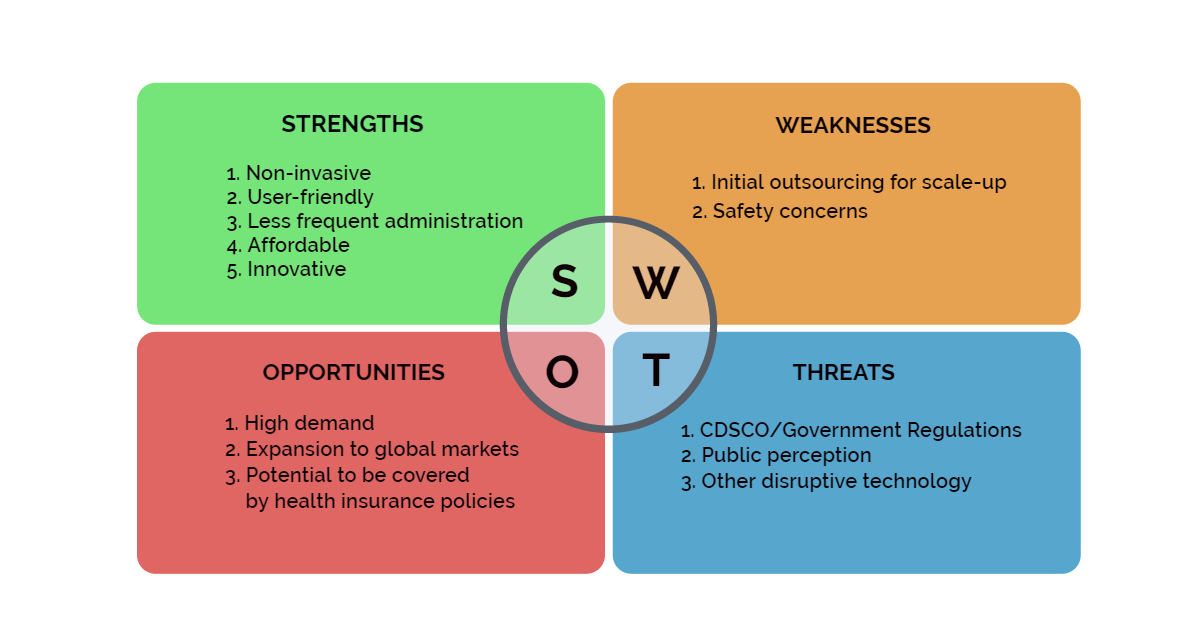
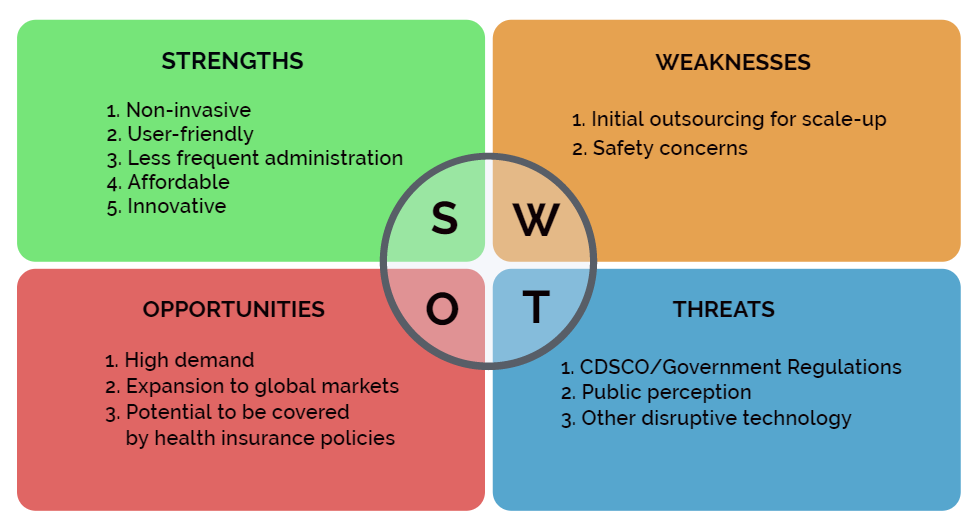
tabs

diff --git a/Entrepreneurship/index.html b/Entrepreneurship/index.html
@@ -149,31 +149,31 @@
 			</p>
 		</div>
 
-		<div class="container-fluid">
+		<div class="container-fluid" style="margin-top: 5%;">
 			<div class="container">
 				<div class="row text-center">
 					<div class="col text-center">
 						<a class="js-trigger" href="#button-1">
-							<img class="img-fluid" src="Entrepreneurship/click-buttons/button-4_prelimnary_considerations.png">
-							<p class="button-p text-center">Preliminary considerations</p>
+							<img class="img-fluid" src="Entrepreneurship/click-buttons/1%20tile.png">
+							
 						</a>
 					</div>
 					<div class="col text-center">
 						<a class="js-trigger text-center" href="#button-2">
-							<img class="img-fluid" src="Entrepreneurship/click-buttons/button-1_business_plans.png">
-							<p class="button-p text-center">Business Plan</p>
+							<img class="img-fluid" src="Entrepreneurship/click-buttons/2%20tile.png">
+							
 						</a>
 					</div>
 					<div class="col">
 						<a class="js-trigger" href="#button-3">
-							<img class="img-fluid" src="Entrepreneurship/click-buttons/button-3_usp.png">
-							<p class="button-p text-center">Unique Selling Proposition</p>
+							<img class="img-fluid" src="Entrepreneurship/click-buttons/3%20tile.png">
+							
 						</a>
 					</div>
 					<div class="col">
 						<a class="js-trigger" href="#button-4">
-							<img class="img-fluid" src="Entrepreneurship/click-buttons/button-2_future_plans.png">
-							<p class="button-p text-center">Future</p>
+							<img class="img-fluid" src="Entrepreneurship/click-buttons/4%20tile.png">
+							
 						</a>
 					</div>
 				</div>
@@ -285,11 +285,11 @@
 			</div>
 		</section>
 		<div class="container add1 text-center">
-
 			<h2>Product Competitors</h2>
 			<a href="Entrepreneurship/Competition.pdf" target="_blank">
 				<button type="button" class="btn btn-primary" style="margin-bottom: 5%;">View competitors pdf</button>
-			</a>
+			</a>	
+		</div>
 			<!--
 			
 			<button class=""> </button>
@@ -301,7 +301,7 @@
 				</div>
 			</div>
 -->
-		</div>
+		
 
 
 
@@ -494,8 +494,8 @@
 		</div>
 
 		<div class="container chapter">
-			<h2>SWOT Analysis</h2>
-			<div class="text-center">
+			<h2 style="margin-bottom: 0;">SWOT Analysis</h2>
+			<div class="text-center" style="margin-top: 0;">
 				<img class="img-fluid" src="Imgs/SWOT-2.png">
 			</div>
 
@@ -561,11 +561,11 @@
 						</div>
 					</div>
 				</li>
-
-
 			</ul>
 		</section>
 	</div>
+	
+	<div class="blank-space" style="padding: 3%;"></div>
 
 	<footer class="mainfooter" role="contentinfo">
 		<div class="footer-middle">

diff --git a/3d-magazine/Img-Gallery.css b/3d-magazine/Img-Gallery.css
@@ -1,0 +1,76 @@
+body {
+	margin: 20px;
+}
+.container {
+	text-align: center;
+}
+.mockup {
+	display: inline-block;
+	position: relative;
+	z-index: 3;
+	text-align: center;
+	font-size: 0;
+	perspective: 2400px;
+	perspective-origin: 50% 100%;
+	opacity: 0;
+	transition: 500ms opacity;
+}
+.mockup.loaded {
+	opacity: 1;
+}
+.mockup .part .top,
+.mockup .part .bottom {
+	position: absolute;
+	top: 0;
+	left: 0;
+}
+.mockup .part.top {
+	transform: translate3d(0, 0, 0) rotateX(-90deg);
+}
+.mockup:hover .part.top {
+	transform: translate3d(0, 0, 0) rotateX(0deg);
+}
+.mockup .part {
+	display: inline-block;
+	position: relative;
+	-webkit-transform-style: preserve-3d;
+	transform-style: preserve-3d;
+	transform-origin: 50% 100%;
+	transition: 900ms;
+}
+.mockup.opened .part .top {
+	transform: translate3d(0, 0, -11px) rotateX(90deg) scale(1, 1);
+}
+.mockup .part .top {
+	transform-origin: 50% 0;
+	transform: translate3d(0, 0, -11px) rotateX(90deg);
+	transition: 900ms;
+}
+.mockup img {
+	display: block;
+	max-width: 100%;
+	backface-visibility: hidden;
+}
+.mockup .part .cover {
+	position: relative;
+}
+.mockup video {
+	display: block;
+	position: absolute;
+	top: 8%;
+	left: 4%;
+	width: 92%;
+	border-radius: 6px;
+	backface-visibility: hidden;
+	transform: translate3d(0, 0, 1px);
+}
+.mockup .part.bottom {
+	position: absolute;
+	top: 0;
+	left: 0;
+	transform: translate3d(0, 0, 0) rotateX(-90deg);
+}
+.mockup .part .bottom {
+	transform-origin: 50% 0;
+	transform: translate3d(0, 0, 0) rotateX(90deg);
+}

diff --git a/3d-magazine/Img-Gallery.html b/3d-magazine/Img-Gallery.html
@@ -1,0 +1,41 @@
+<!DOCTYPE html>
+<html lang="">
+
+<head>
+	<meta charset="utf-8">
+	<title>Example Title</title>
+	<meta name="author" content="Your Name">
+	<meta name="description" content="Example description">
+	<meta name="viewport" content="width=device-width, initial-scale=1.0">
+	<link rel="stylesheet" href="Img-Gallery.css">
+	<link rel="icon" type="image/x-icon" href="" />
+</head>
+
+<body>
+
+	<div class="container">
+		<div class="mockup mockup-macbook loaded opened">
+			<div class="part top">
+				<img src="https://d1xm195wioio0k.cloudfront.net/images/mockup/macbook-top.svg" alt="" class="top">
+				<img src="https://d1xm195wioio0k.cloudfront.net/images/mockup/macbook-cover.svg" alt="" class="cover">
+
+				<video autoplay muted playsinline loop>
+					<source src="../Home_2/Videos/simple.mp4" type="video/mp4">
+				</video>
+			</div>
+			<div class="part bottom">
+				<img src="https://d1xm195wioio0k.cloudfront.net/images/mockup/macbook-cover.svg" alt="" class="cover">
+				<img src="https://d1xm195wioio0k.cloudfront.net/images/mockup/macbook-bottom.svg" alt="" class="bottom">
+			</div>
+		</div>
+	</div>
+
+
+	<script>
+
+
+	</script>
+	<script type="text/javascript" src=""></script>
+</body>
+
+</html>

diff --git a/Entrepreneurship/stylesheet.css b/Entrepreneurship/stylesheet.css
@@ -425,6 +425,8 @@ embed {
 
 h2{
 	text-align: center;
+	font-size: 2.5rem;
+	margin-top: 8%;
 }
 
 
@@ -458,7 +460,7 @@ h2{
 
 
 .chapter {
-	margin: 5% auto 2% auto;
+	margin: 5% auto 1% auto;
 }
 
 .text-best {
